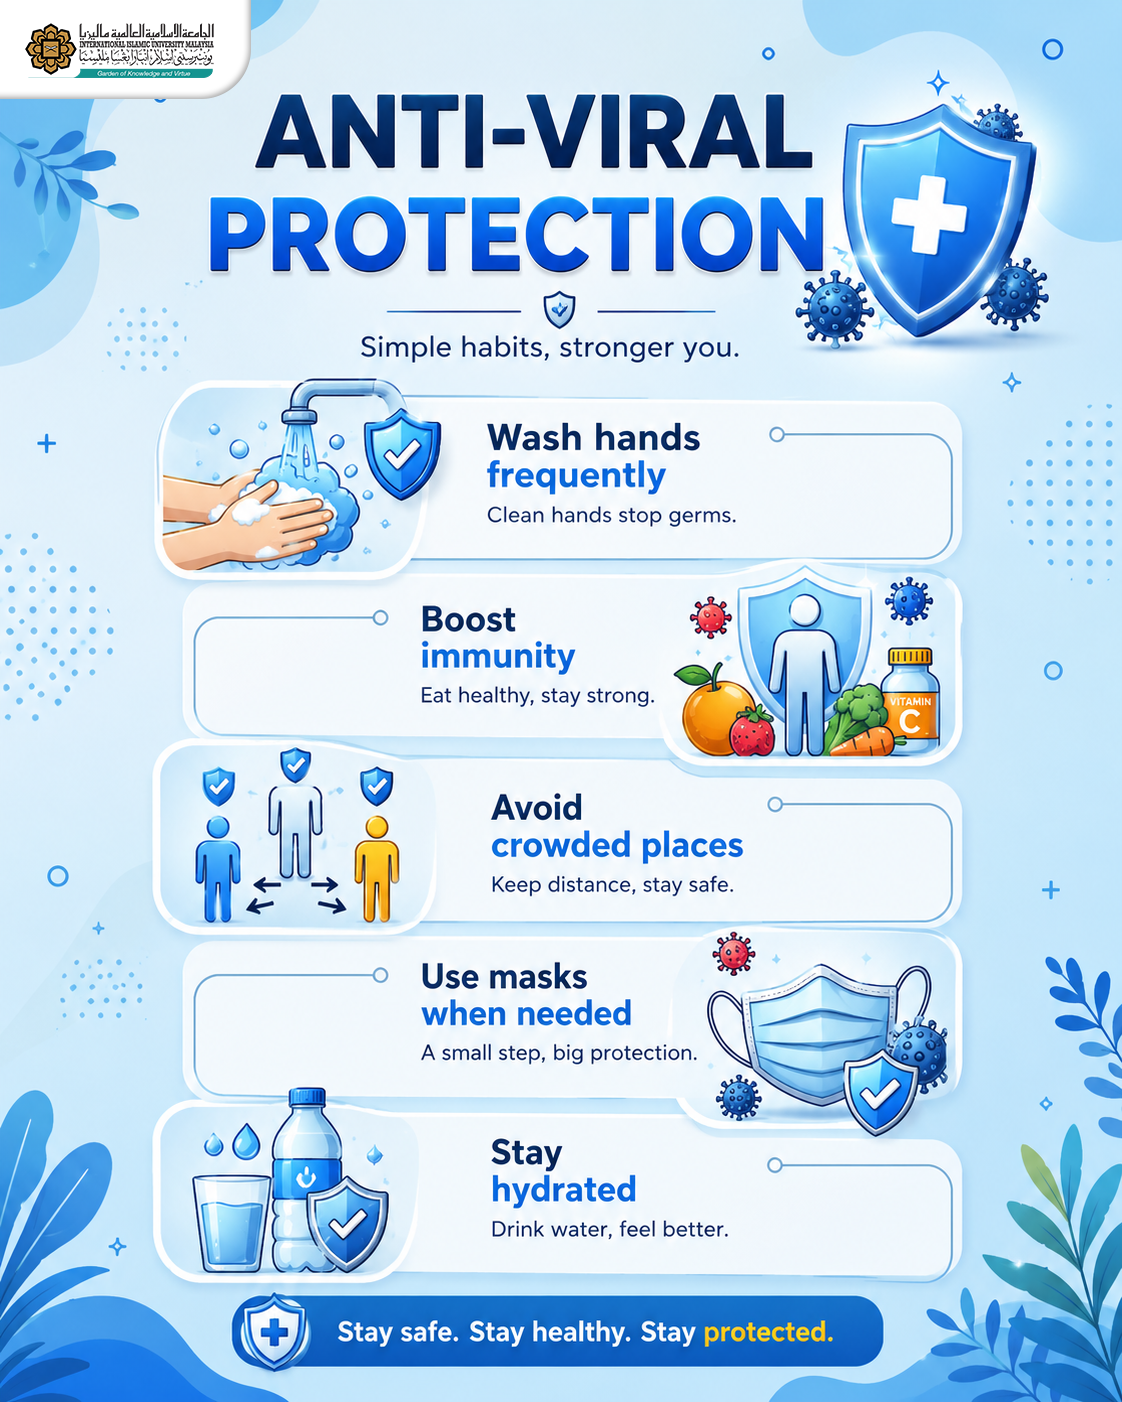
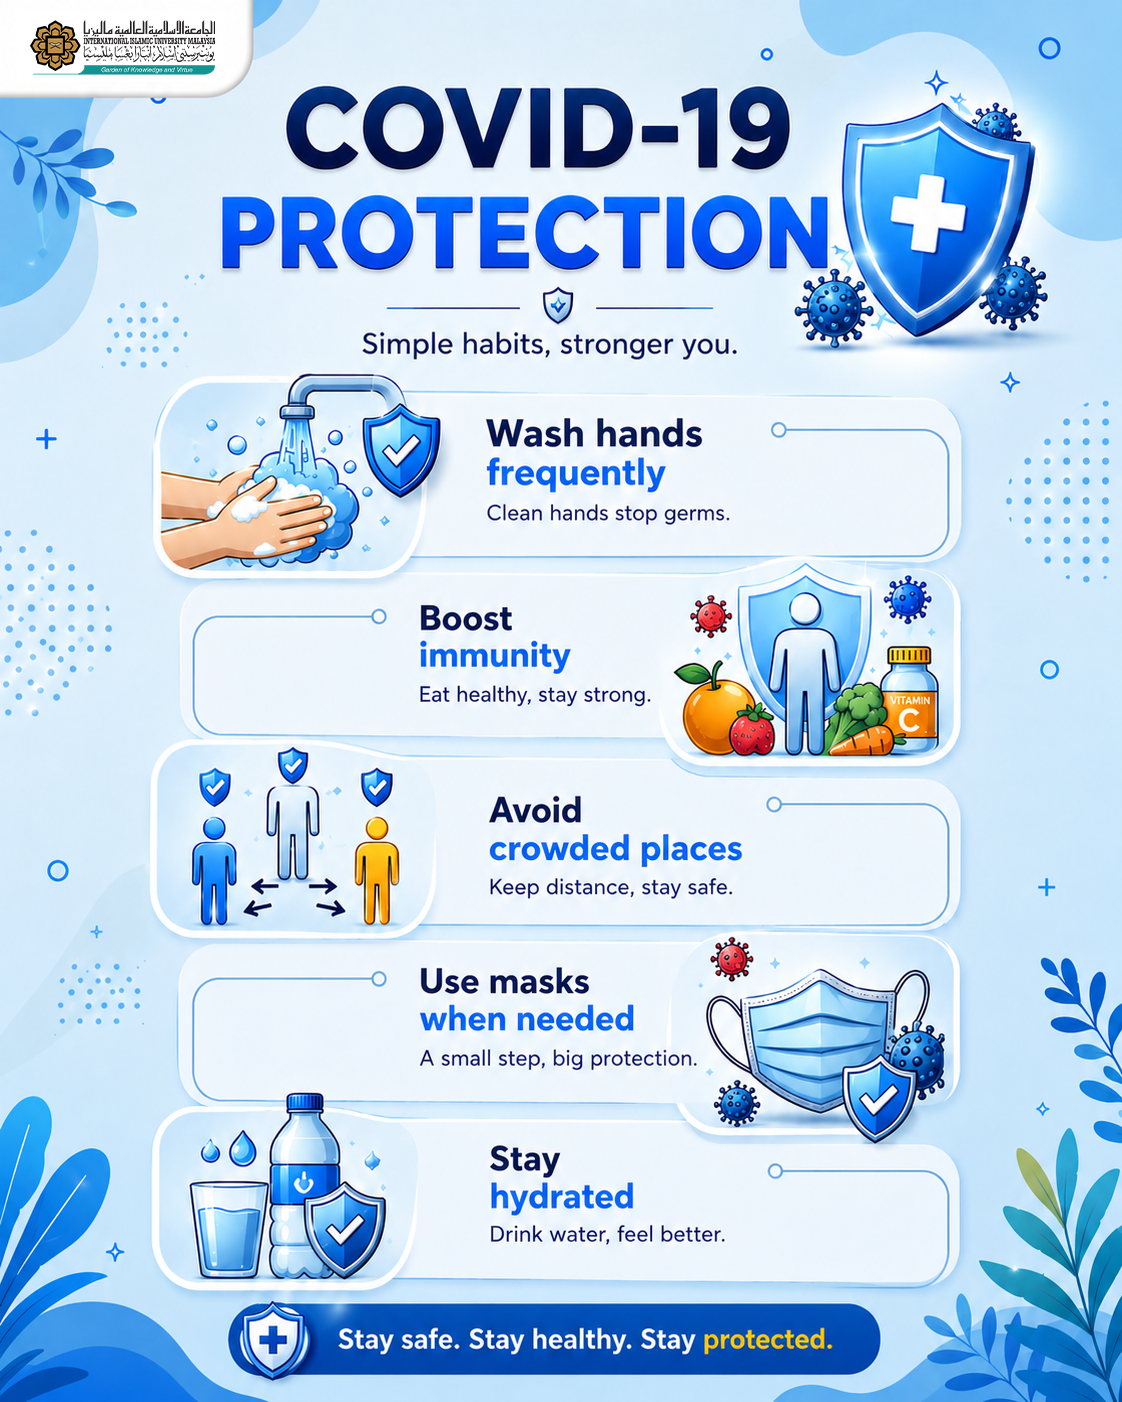
Auto-generated commit

diff --git a/404.html b/404.html
@@ -15,5 +15,5 @@
   <style>:root,body{--moz-theme-primary:$moz-theme-primary;--moz-color-primary:#06aaf1;--moz-color-primary-lite:#b8e8ff;--moz-color-primary-dark:#025b8a;--moz-color-primary-mute:#c2c2c2;--moz-theme-secondary:$moz-theme-secondary;--moz-color-secondary:#803bff;--moz-color-secondary-lite:#d8cdff;--moz-color-secondary-dark:#5601d6;--moz-color-background:#ffffff;--moz-color-default:#000000;--moz-color-surface:#fefefe;--moz-color-text:#1b1813;--moz-color-border:color-mix(in srgb, var(--moz-color-text) 15%, transparent);--moz-color-success:#4bb800;--moz-color-warning:#ffbf00;--moz-color-danger:#d70000}:root{--moz-space-0:0;--moz-space-1:.5rem;--moz-space-2:1rem;--moz-space-3:1.5rem;--moz-space-4:2rem;--moz-space-5:2.5rem;--moz-space-6:3rem;--moz-space-7:3.5rem;--moz-space-8:4rem;--moz-space-9:4.5rem;--moz-space-10:5rem;--moz-radius-sm:calc(1.25rem - var(--moz-space-1));--moz-radius-default:1.25rem;--moz-radius-lg:calc(1.25rem + var(--moz-space-1));--moz-radius-xl:calc(1.25rem + var(--moz-space-2));--moz-radius-pill:9999px;--moz-duration-fast:.1s;--moz-duration:.3s;--moz-fade-hover:10%;--moz-fade-border:20%;--moz-fade-hover-dark:30%;--moz-fade-outline:50%;--moz-fade-placeholder:60%;--moz-fade-border-dark:80% --moz-font-family: ui-sans-serif, system-ui, -apple-system, "Segoe UI", Roboto, Helvetica, Arial, "Apple Color Emoji", "Segoe UI Emoji";--moz-font-size:1rem;--moz-line-height:1;--moz-font-weight-regular:400;--moz-font-weight-medium:500;--moz-font-weight-semibold:600;--moz-font-weight-bold:700}html,body{width:100%;height:100%;margin:0;padding:0;background:var(--moz-color-background);font-family:var(--moz-font-family);font-size:var(--moz-font-size);line-height:var(--moz-line-height);color:var(--moz-color-text)}*,*:before,*:after{box-sizing:border-box}body,html{font-family:Google Sans Flex,sans-serif;background:#f8f7ee}</style><link rel="stylesheet" href="styles-YNH2I7G3.css" media="print" onload="this.media='all'"><noscript><link rel="stylesheet" href="styles-YNH2I7G3.css"></noscript></head>
   <body>
     <app-root></app-root>
-  <script src="polyfills-5CFQRCPP.js" type="module"></script><script src="main-JYDZ43MI.js" type="module"></script></body>
+  <script src="polyfills-5CFQRCPP.js" type="module"></script><script src="main-VVFJ2VFO.js" type="module"></script></body>
 </html>

diff --git a/index.html b/index.html
@@ -15,5 +15,5 @@
   <style>:root,body{--moz-theme-primary:$moz-theme-primary;--moz-color-primary:#06aaf1;--moz-color-primary-lite:#b8e8ff;--moz-color-primary-dark:#025b8a;--moz-color-primary-mute:#c2c2c2;--moz-theme-secondary:$moz-theme-secondary;--moz-color-secondary:#803bff;--moz-color-secondary-lite:#d8cdff;--moz-color-secondary-dark:#5601d6;--moz-color-background:#ffffff;--moz-color-default:#000000;--moz-color-surface:#fefefe;--moz-color-text:#1b1813;--moz-color-border:color-mix(in srgb, var(--moz-color-text) 15%, transparent);--moz-color-success:#4bb800;--moz-color-warning:#ffbf00;--moz-color-danger:#d70000}:root{--moz-space-0:0;--moz-space-1:.5rem;--moz-space-2:1rem;--moz-space-3:1.5rem;--moz-space-4:2rem;--moz-space-5:2.5rem;--moz-space-6:3rem;--moz-space-7:3.5rem;--moz-space-8:4rem;--moz-space-9:4.5rem;--moz-space-10:5rem;--moz-radius-sm:calc(1.25rem - var(--moz-space-1));--moz-radius-default:1.25rem;--moz-radius-lg:calc(1.25rem + var(--moz-space-1));--moz-radius-xl:calc(1.25rem + var(--moz-space-2));--moz-radius-pill:9999px;--moz-duration-fast:.1s;--moz-duration:.3s;--moz-fade-hover:10%;--moz-fade-border:20%;--moz-fade-hover-dark:30%;--moz-fade-outline:50%;--moz-fade-placeholder:60%;--moz-fade-border-dark:80% --moz-font-family: ui-sans-serif, system-ui, -apple-system, "Segoe UI", Roboto, Helvetica, Arial, "Apple Color Emoji", "Segoe UI Emoji";--moz-font-size:1rem;--moz-line-height:1;--moz-font-weight-regular:400;--moz-font-weight-medium:500;--moz-font-weight-semibold:600;--moz-font-weight-bold:700}html,body{width:100%;height:100%;margin:0;padding:0;background:var(--moz-color-background);font-family:var(--moz-font-family);font-size:var(--moz-font-size);line-height:var(--moz-line-height);color:var(--moz-color-text)}*,*:before,*:after{box-sizing:border-box}body,html{font-family:Google Sans Flex,sans-serif;background:#f8f7ee}</style><link rel="stylesheet" href="styles-YNH2I7G3.css" media="print" onload="this.media='all'"><noscript><link rel="stylesheet" href="styles-YNH2I7G3.css"></noscript></head>
   <body>
     <app-root></app-root>
-  <script src="polyfills-5CFQRCPP.js" type="module"></script><script src="main-JYDZ43MI.js" type="module"></script></body>
+  <script src="polyfills-5CFQRCPP.js" type="module"></script><script src="main-VVFJ2VFO.js" type="module"></script></body>
 </html>